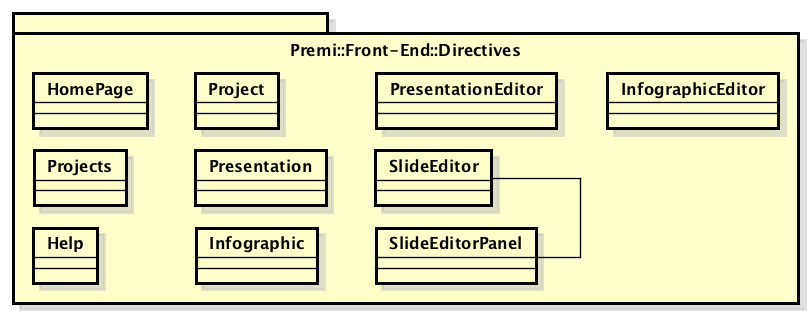
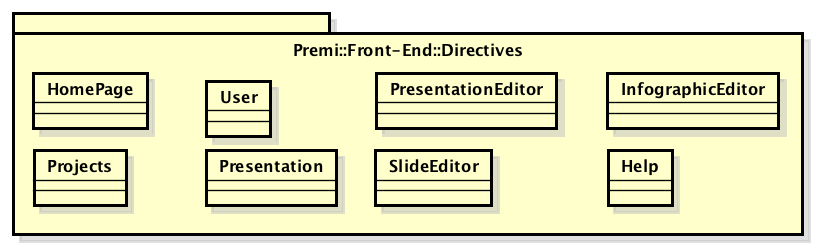
aggiunta sezione directives

diff --git a/esterni/definizione_di_prodotto/sections/model_front_end_directives.tex b/esterni/definizione_di_prodotto/sections/model_front_end_directives.tex
@@ -4,3 +4,217 @@
 	\caption[Premi::Front-End::Directives]{Premi::Front-End::Directives}
 \end{figure}
 Il package gestisce le direttive del front-end. Comunica con le view e con i controller per associarli nel giusto ordine e farli comunicare.
+Per brevità nell'identificare una direttiva è stata omessa la dicitura Premi::Front-End::Directives lasciando solamente il nome della direttiva stessa. Si assume dunque che la dicitura compatta <nomeDirettiva> rappresenta la forma estesa Premi::Front-End::Directives::<nomeDirettiva>.
+\newpage
+
+
+\subsubsection{Help}
+	\begin{figure}[h]
+		\centering
+		\includegraphics[width=0.5\linewidth]{img/premi_front_end_directives_help}
+		\caption[Premi::Front-End::Directives::Help]{Premi::Front-End::Directives::Help}
+	\end{figure}
+	
+	\paragraph{Descrizione}
+	Rappresenta il componente grafico che permette di visualizzare gli aiuti agli utenti nelle varie sezioni dell'applicazione.
+	
+	\paragraph{Utilizzo}
+	Viene utilizzata per consentire di far vedere all'utente i tips nelle sezioni dell'applicazione. Si attiva a seconda dell'opzione selezionata dall'utente
+	
+	\paragraph{Attributi}
+	\begin{itemize}
+		\item \textbf{+ restrict: String}:\\
+		Stringa che specifica la modalità con la quale è possibile inserire la direttiva all'interno della pagina;
+		\item \textbf{+ scope: Object}:\\
+		Oggetto scope locale della direttiva;
+		\item \textbf{+ templateUrl: String}:\\
+		Stringa che specifica il percordo dove è situato il file HTML che contiene il template della direttiva
+	\end{itemize}
+\newpage
+
+
+\subsubsection{HomePage}
+	\begin{figure}[h]
+		\centering
+		\includegraphics[width=0.5\linewidth]{img/premi_front_end_directives_homepage}
+		\caption[Premi::Front-End::Directives::HomePage]{Premi::Front-End::Directives::HomePage}
+	\end{figure}
+	
+	\paragraph{Descrizione}
+	Rappresenta il componente grafico che permette all'utente di accedere alle sezioni di login e registrazione e per effettuare la ricerca. Questo componente è visibile all'apertura dell'applicazione.
+	
+	\paragraph{Utilizzo}
+	Viene utilizzata per consentire all'utente di raggiungere le principali sezioni dell'applicazione e per eseguire la ricerca dei progetti.
+		
+	\paragraph{Attributi}
+	\begin{itemize}
+		\item \textbf{+ restrict: String}:\\
+			Stringa che specifica la modalità con la quale è possibile inserire la direttiva all'interno della pagina;
+		\item \textbf{+ scope: Object}:\\
+			Oggetto scope locale della direttiva;
+		\item \textbf{+ templateUrl: String}:\\
+			Stringa che specifica il percordo dove è situato il file HTML che contiene il template della direttiva
+	\end{itemize}
+\newpage
+	
+	
+\subsubsection{InfographicEditor}
+	\begin{figure}[h]
+		\centering
+		\includegraphics[width=0.5\linewidth]{img/premi_front_end_directives_infographiceditor}
+		\caption[Premi::Front-End::Directives::InfographicEditor]{Premi::Front-End::Directives::InfographicEditor}
+	\end{figure}
+	
+	\paragraph{Descrizione}
+		Rappresenta il componente grafico che permette all'utente di accedere alla sezione per la gestione delle infografiche di un progetto.
+	
+	\paragraph{Utilizzo}
+	Viene utilizzata per consentire all'utente di gestire le proprie infografiche, visualizzarle, modificarle e crearne di nuove. Si attiva quando è selezionata un'infografica dalla pagina dei progetti di un utente.
+	
+	\paragraph{Attributi}
+	\begin{itemize}
+		\item \textbf{+ restrict: String}:\\
+		Stringa che specifica la modalità con la quale è possibile inserire la direttiva all'interno della pagina;
+		\item \textbf{+ scope: Object}:\\
+		Oggetto scope locale della direttiva;
+		\item \textbf{+ templateUrl: String}:\\
+		Stringa che specifica il percordo dove è situato il file HTML che contiene il template della direttiva
+	\end{itemize}
+\newpage	
+	
+
+\subsubsection{Presentation}
+	\begin{figure}[h]
+		\centering
+		\includegraphics[width=0.5\linewidth]{img/premi_front_end_directives_presentation}
+		\caption[Premi::Front-End::Directives::Presentation]{Premi::Front-End::Directives::Presentation}
+	\end{figure}
+	
+	\paragraph{Descrizione}
+	Rappresenta il componente grafico che permette all'utente di accedere alla sezione per la visualizzazione di una presentazione.
+	
+	\paragraph{Utilizzo}
+	Viene utilizzata per consentire all'utente di visualizzare una presentazione. Si attiva quando è selezionato il comando show nella pagina dei progetti di un utente oppure dalla pagina dei risultati di ricerca.
+	
+	\paragraph{Attributi}
+	\begin{itemize}
+		\item \textbf{+ restrict: String}:\\
+		Stringa che specifica la modalità con la quale è possibile inserire la direttiva all'interno della pagina;
+		\item \textbf{+ scope: Object}:\\
+		Oggetto scope locale della direttiva;
+		\item \textbf{+ templateUrl: String}:\\
+		Stringa che specifica il percordo dove è situato il file HTML che contiene il template della direttiva
+	\end{itemize}
+\newpage
+
+
+\subsubsection{PresentationEditor}
+	\begin{figure}[h]
+		\centering
+		\includegraphics[width=0.5\linewidth]{img/premi_front_end_directives_presentationeditor}
+		\caption[Premi::Front-End::Directives::PresentationEditor]{Premi::Front-End::Directives::PresentationEditor}
+	\end{figure}
+	
+	\paragraph{Descrizione}
+	Rappresenta il componente grafico che permette all'utente di accedere alla sezione per la modifica di una presentazione.
+	
+	\paragraph{Utilizzo}
+	Viene utilizzata per consentire all'utente di modificare una presentazione. Si attiva quando è selezionato il comando edit nella pagina dei progetti di un utente.
+	
+	\paragraph{Relazione con le altre classi}
+	\begin{itemize}
+		\item OUT: \textbf{SlideEditor}:\\
+		Direttiva che gestisce il componente grafico per la modifica di una slide.
+	\end{itemize}
+	
+	\paragraph{Attributi}
+	\begin{itemize}
+		\item \textbf{+ restrict: String}:\\
+		Stringa che specifica la modalità con la quale è possibile inserire la direttiva all'interno della pagina;
+		\item \textbf{+ scope: Object}:\\
+		Oggetto scope locale della direttiva;
+		\item \textbf{+ templateUrl: String}:\\
+		Stringa che specifica il percordo dove è situato il file HTML che contiene il template della direttiva
+	\end{itemize}
+\newpage
+
+
+\subsubsection{SlideEditor}
+	\begin{figure}[h]
+		\centering
+		\includegraphics[width=0.5\linewidth]{img/premi_front_end_directives_slideeditor}
+		\caption[Premi::Front-End::Directives::SlideEditor]{Premi::Front-End::Directives::SlideEditor}
+	\end{figure}
+	
+	\paragraph{Descrizione}
+	Rappresenta il componente grafico che permette all'utente di modificare la slide di una presentazione.
+	
+	\paragraph{Utilizzo}
+	Viene utilizzata per consentire all'utente di modificare una slide specifica di una presentazione. Si attiva quando viene attivata la direttiva per la modifica di una presentazione. La direttiva \textit{SlideEditor} è inclusa nella componente grafica della direttiva \textit{PresentationEditor}
+	
+	\paragraph{Relazione con le altre classi}
+	\begin{itemize}
+		\item IN: \textbf{PresentationEditor}:\\
+		Direttiva che gestisce il componente grafico per la modifica di una presentazione.
+	\end{itemize}
+	
+	\paragraph{Attributi}
+	\begin{itemize}
+		\item \textbf{+ restrict: String}:\\
+		Stringa che specifica la modalità con la quale è possibile inserire la direttiva all'interno della pagina;
+		\item \textbf{+ scope: Object}:\\
+		Oggetto scope locale della direttiva;
+		\item \textbf{+ templateUrl: String}:\\
+		Stringa che specifica il percordo dove è situato il file HTML che contiene il template della direttiva
+	\end{itemize}
+\newpage
+
+
+\subsubsection{Projects}
+	\begin{figure}[h]
+		\centering
+		\includegraphics[width=0.5\linewidth]{img/premi_front_end_directives_projects}
+		\caption[Premi::Front-End::Directives::Projects]{Premi::Front-End::Directives::Projects}
+	\end{figure}
+	
+	\paragraph{Descrizione}
+	Rappresenta il componente grafico che permette all'utente di accedere alla sezione per la visualizzazione dei propri progetti.
+	
+	\paragraph{Utilizzo}
+	Viene utilizzata per consentire all'utente di visualizzare i suoi progetti per poi accedere alle sezioni di presentazione o modifica. Si attiva quando l'utente ha fatto il login e entra nella sua area riservata.
+	
+	\paragraph{Attributi}
+	\begin{itemize}
+		\item \textbf{+ restrict: String}:\\
+		Stringa che specifica la modalità con la quale è possibile inserire la direttiva all'interno della pagina;
+		\item \textbf{+ scope: Object}:\\
+		Oggetto scope locale della direttiva;
+		\item \textbf{+ templateUrl: String}:\\
+		Stringa che specifica il percordo dove è situato il file HTML che contiene il template della direttiva
+	\end{itemize}
+\newpage
+
+
+\subsubsection{User}
+	\begin{figure}[h]
+		\centering
+		\includegraphics[width=0.5\linewidth]{img/premi_front_end_directives_user}
+		\caption[Premi::Front-End::Directives::User]{Premi::Front-End::Directives::User}
+	\end{figure}
+	
+	\paragraph{Descrizione}
+	Rappresenta il componente grafico che permette all'utente di accedere alla sezione per la visualizzazione dei propri dati.
+	
+	\paragraph{Utilizzo}
+	Viene utilizzata per consentire all'utente di visualizzare i propri dati. Si attiva nel momento in cui viene eseguito il login al sito.
+	
+	\paragraph{Attributi}
+	\begin{itemize}
+		\item \textbf{+ restrict: String}:\\
+		Stringa che specifica la modalità con la quale è possibile inserire la direttiva all'interno della pagina;
+		\item \textbf{+ scope: Object}:\\
+		Oggetto scope locale della direttiva;
+		\item \textbf{+ templateUrl: String}:\\
+		Stringa che specifica il percordo dove è situato il file HTML che contiene il template della direttiva
+	\end{itemize}
+\newpage
